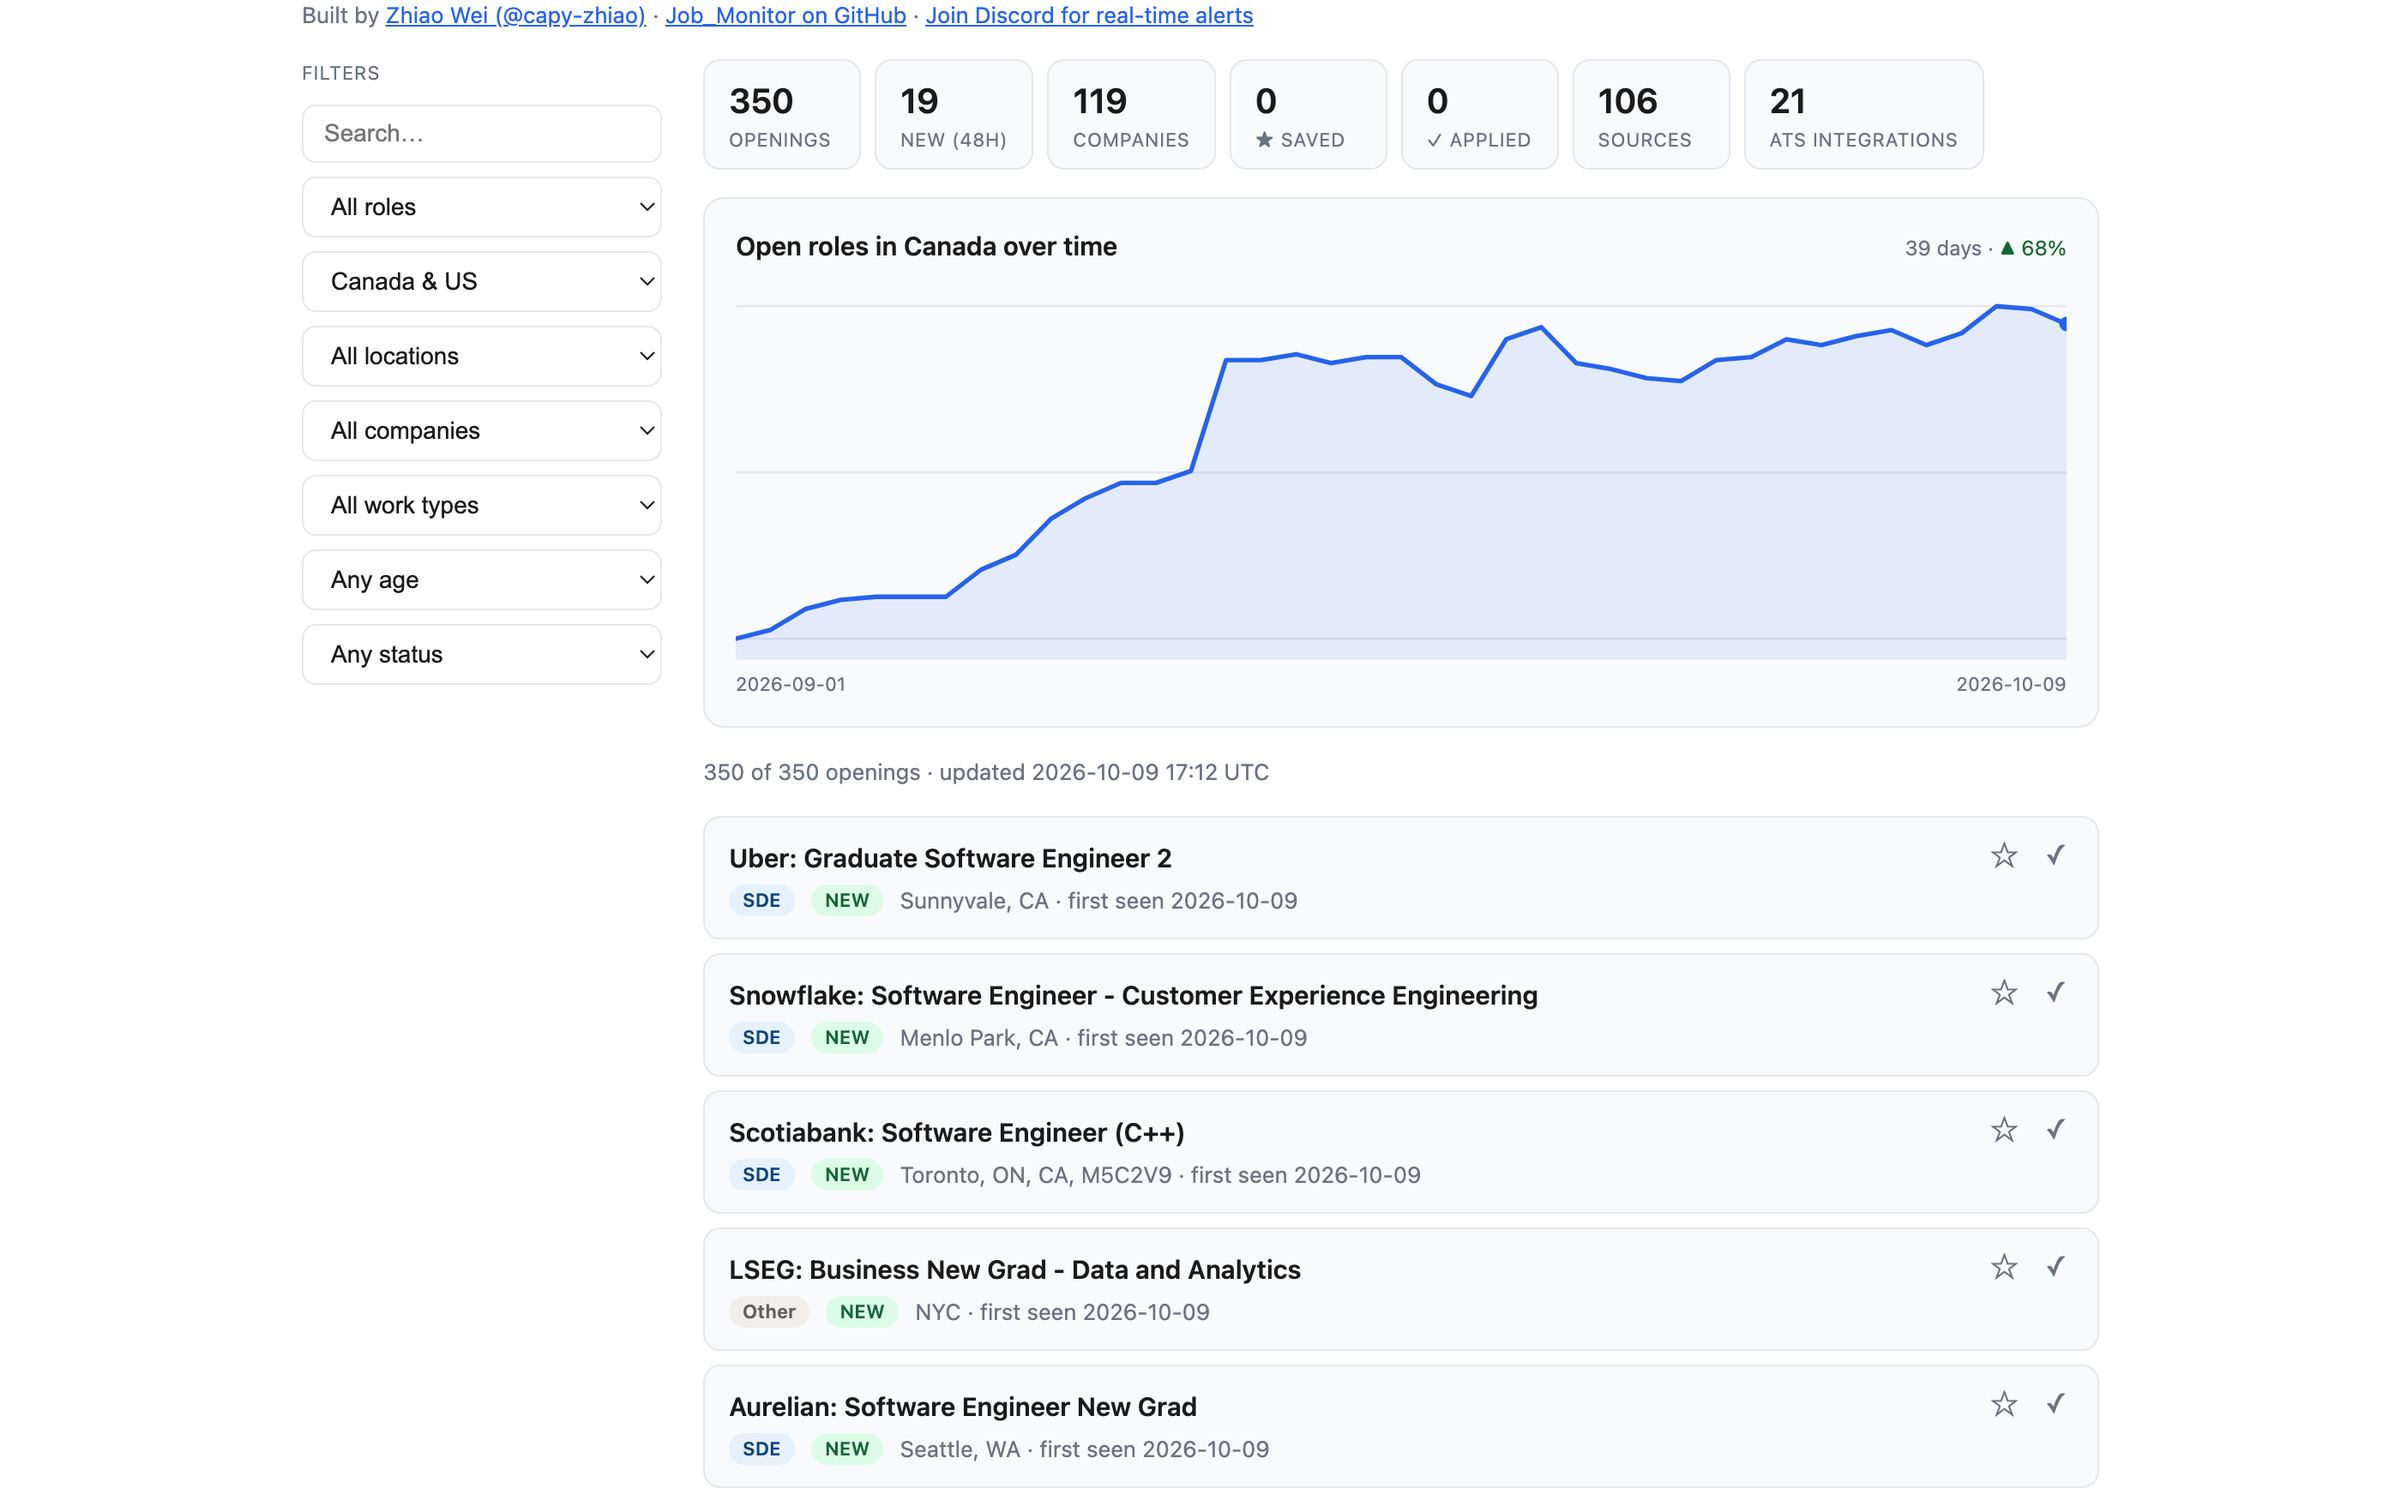
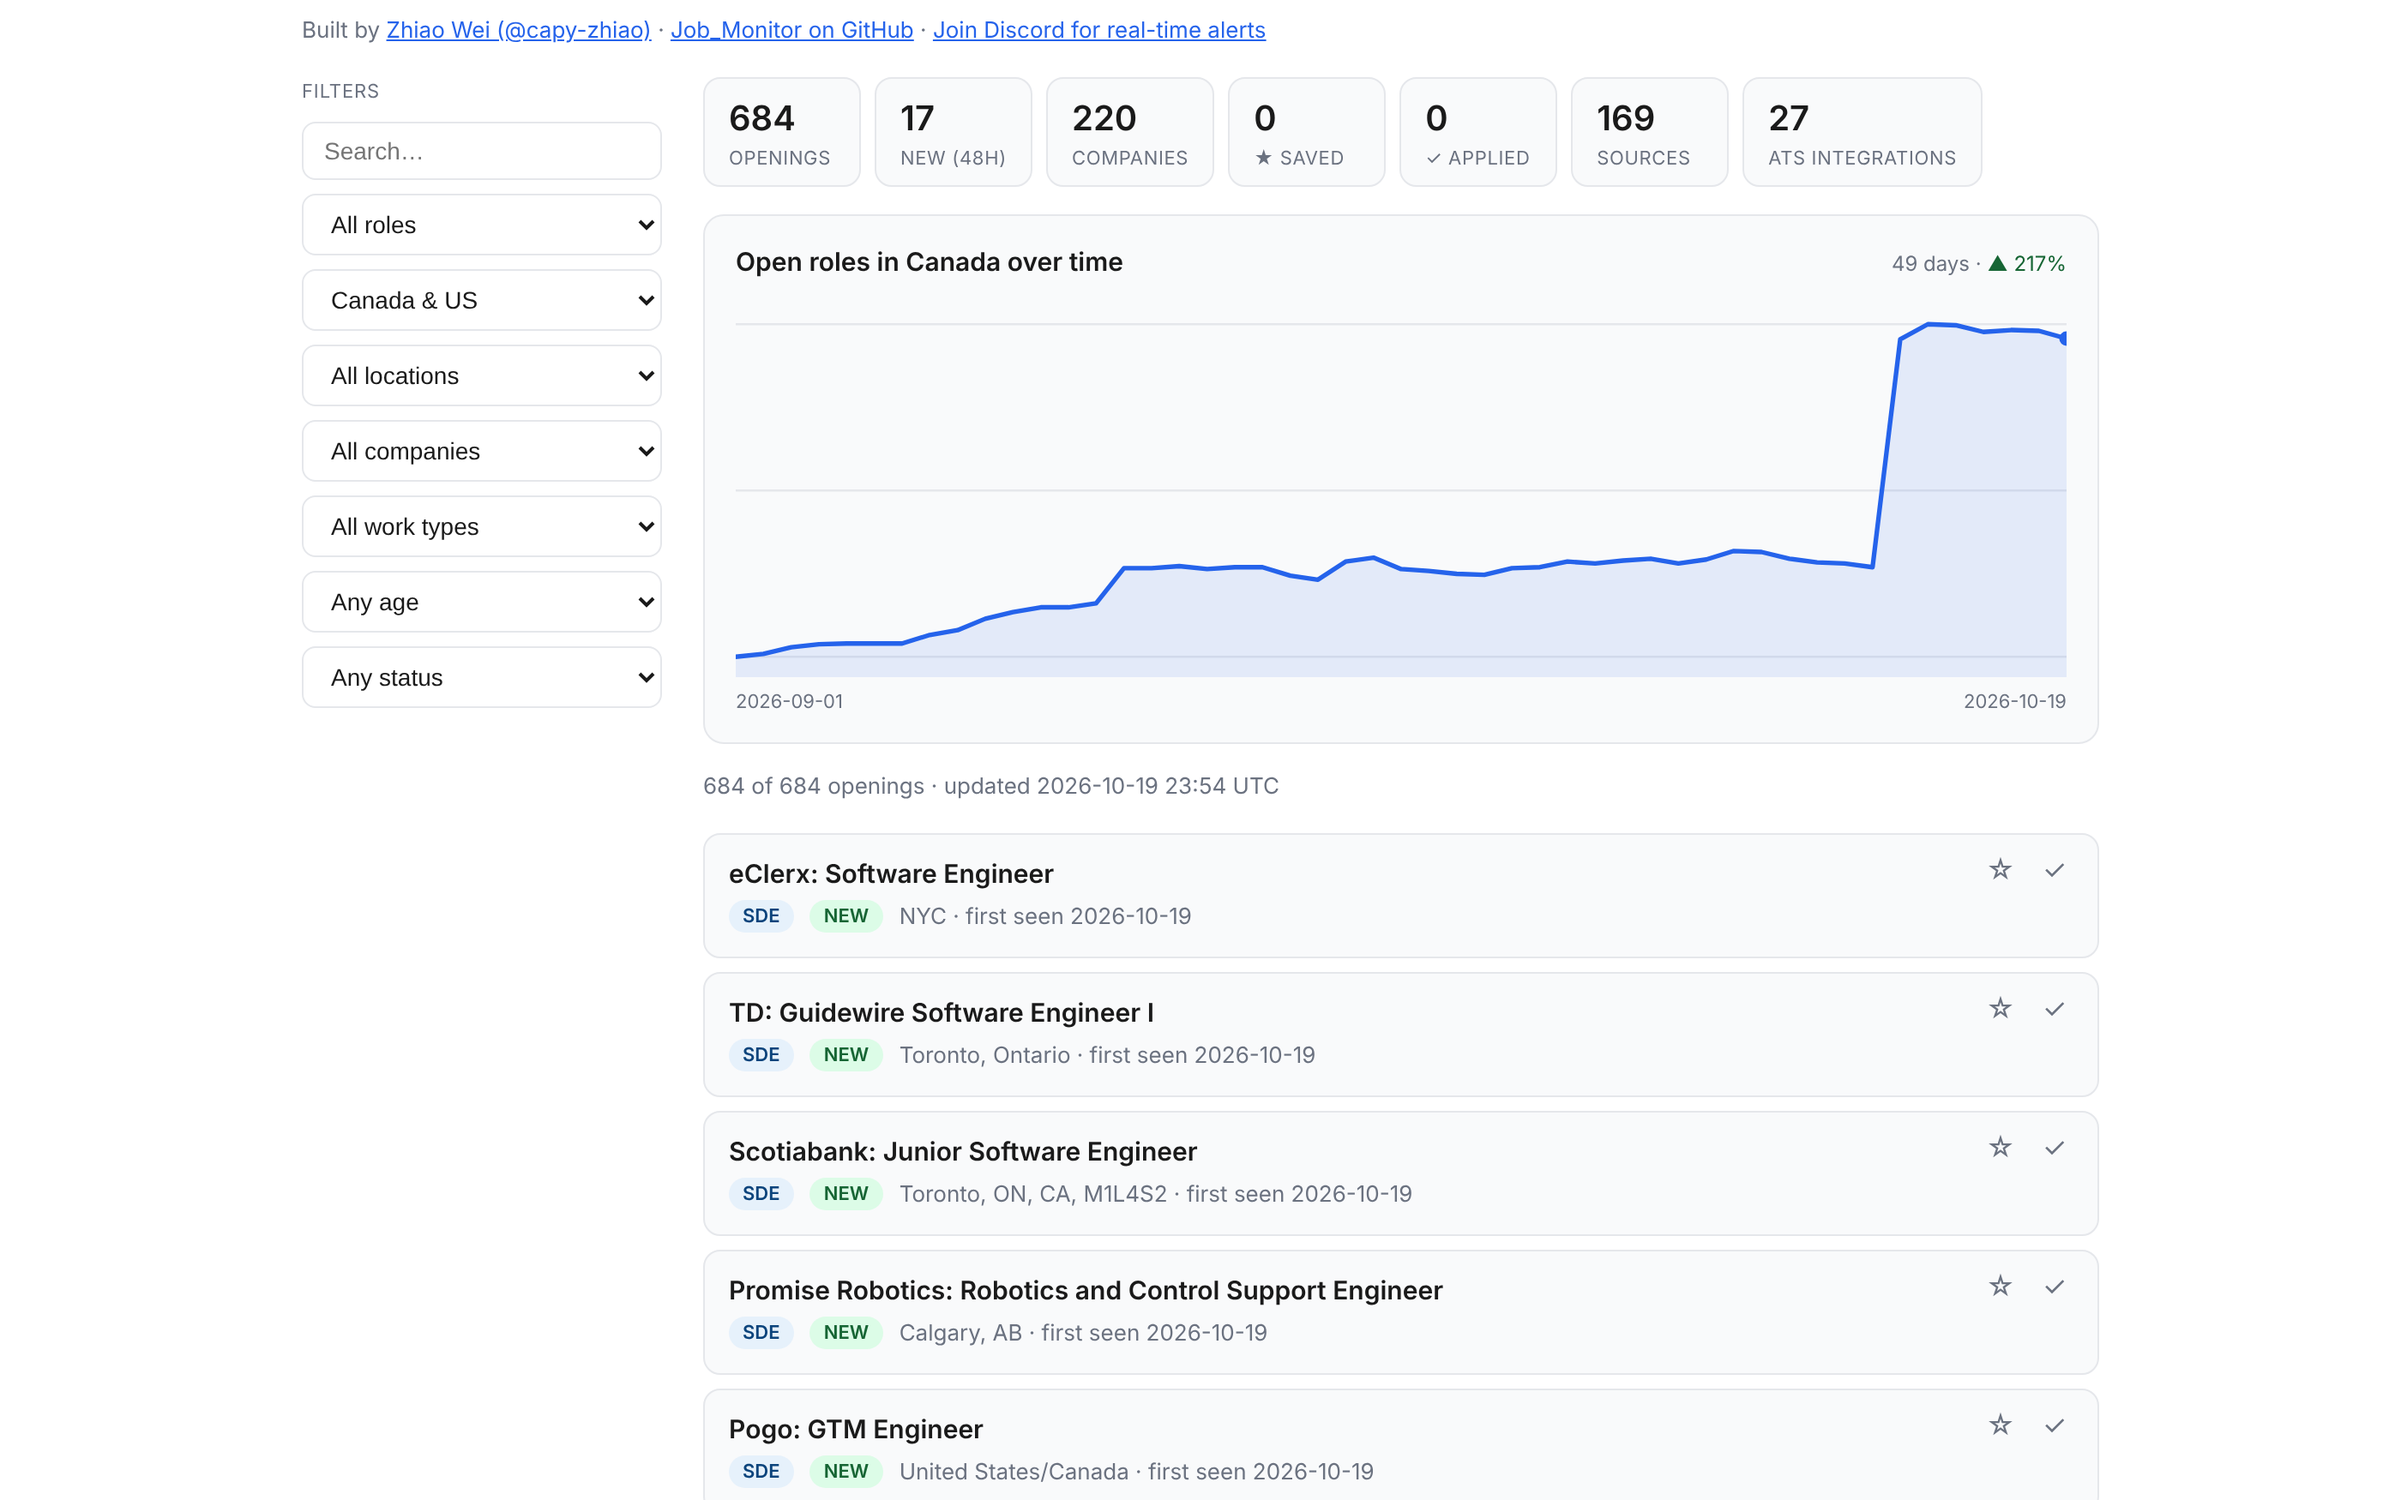
Job Monitor: 169 sources and 27 adapters, no 15-minute claim
The card said 106 career feeds every 15 minutes. The repo now has 169
sources (company career sites plus three community new-grad lists) and
27 platform adapters, and GitHub delays scheduled runs far past the
15-minute cron, so the cadence is gone. The dashboard screenshots and
the link-preview card are retaken to match; the preview card also shows
zhiaowei.dev now that the site lives there.

Claude-Session: https://claude.ai/code/session_01H6JoBrR1RSqRdoPetduxNY

diff --git a/_projects/job_monitor.md b/_projects/job_monitor.md
@@ -1,7 +1,7 @@
 ---
 layout: page
 title: Job Monitor
-description: Tracks new-grad jobs from 106 career feeds every 15 minutes. Live dashboard, Discord alerts, on-demand LinkedIn search.
+description: Tracks new-grad jobs from 169 sources. Live dashboard, Discord alerts, on-demand LinkedIn search.
 img: assets/img/projects/thumb_job_monitor.png
 importance: 1
 home_order: 5 # position on the homepage grid (lower comes first)
@@ -24,8 +24,8 @@ New-grad postings are spread across many career sites, and those sites run on di
 
 ### What I built
 
-- A Python pipeline with **21 platform adapters** covering **106 career feeds**, using only the standard library. Several adapters call undocumented endpoints I reverse-engineered, such as Google's `batchexecute` RPC.
-- A **GitHub Actions** job every 15 minutes that fetches every feed, keeps postings that match the title keywords and locations, sends new ones to Discord and commits its state back to the repository.
+- A Python pipeline with **27 platform adapters** covering **169 sources** (company career sites plus three community new-grad lists), using only the standard library. Several adapters call undocumented endpoints I reverse-engineered, such as Google's `batchexecute` RPC.
+- A scheduled **GitHub Actions** job that fetches every source, keeps postings that match the title keywords and locations, sends new ones to Discord and commits its state back to the repository.
 - A [live dashboard](https://capy-zhiao.github.io/Job_Monitor/) in plain JavaScript with search, filters and shareable filtered links.
 - A `/linkedin` command in Discord that searches LinkedIn on demand and posts what the scheduled job has not already reported.
 
